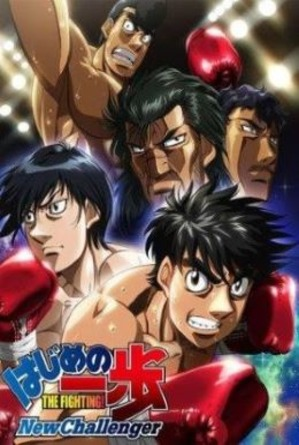
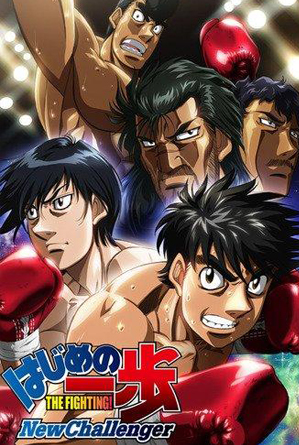
Updated a file.

diff --git a/style.css b/style.css
@@ -402,33 +402,33 @@ section {
   filter: brightness(0.5);
 }
 .container .logo1 {
-  width: 600px;
+  width: 550px;
   height: auto;
-  top: 100px;
+  top: 120px;
   left: 50px;
 }
 .container .logo2 {
   width: 600px;
   height: auto;
-  top: 150px;
+  top: 160px;
   left: 50px;
 }
 .container .logo3 {
-  width: 550px;
+  width: 500px;
   height: auto;
-  top: 70px;
+  top: 95px;
   left: 50px;
 }
 .container .logo4 {
-  width: 700px;
+  width: 680px;
   height: auto;
-  top: 90px;
+  top: 110px;
   left: 0px;
 }
 .container .logo5 {
-  width: 600px;
+  width: 550px;
   height: auto;
-  top: 105px;
+  top: 125px;
   left: 65px;
 }
 .container .logo6 {
@@ -438,19 +438,19 @@ section {
   left: 40px;
 }
 .container .logo7 {
-  width: 600px;
+  width: 580px;
   height: auto;
-  top: 100px;
+  top: 120px;
   left: 60px;
 }
 .container .logo8 {
-  width: 600px;
+  width: 520px;
   height: auto;
-  top: 60px;
+  top: 95px;
   left: 60px;
 }
 .container .logo9 {
-  width: 600px;
+  width: 650px;
   height: auto;
   top: 200px;
   left: 60px;
